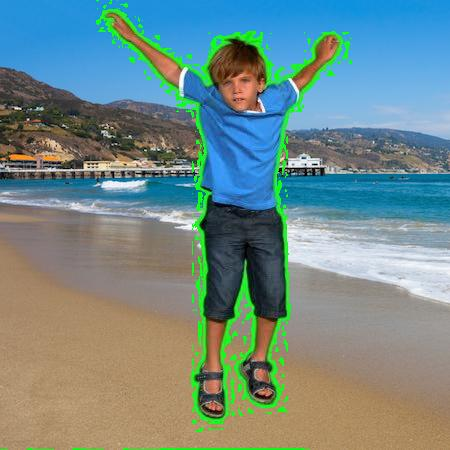
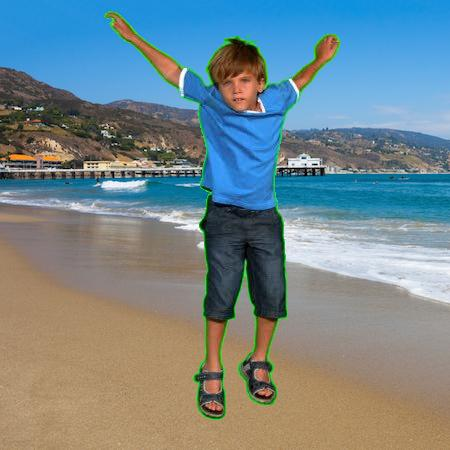
image stuff

Changed region(s): [[0.1867, 0.0, 0.7778, 0.9644], [0.1556, 0.9956, 0.7156, 1.0], [0.0, 0.9956, 0.1244, 1.0]]

diff --git a/images_example.py b/images_example.py
@@ -17,7 +17,7 @@ def pixel_to_name(pixel: tuple) -> str:
     """
     red, green, blue = pixel
 
-    if red < 25 and blue < 25 and green > 249:
+    if red < 200 and blue < 200 and green > 220:
         return "green"
     else:
         return "colour unknown"
@@ -46,5 +46,4 @@ with Image.open("./Images/kid-green.jpg") as im:
 
     bg_im.close()
 
-    # Save image
     im.save("./Images/output.jpg")
